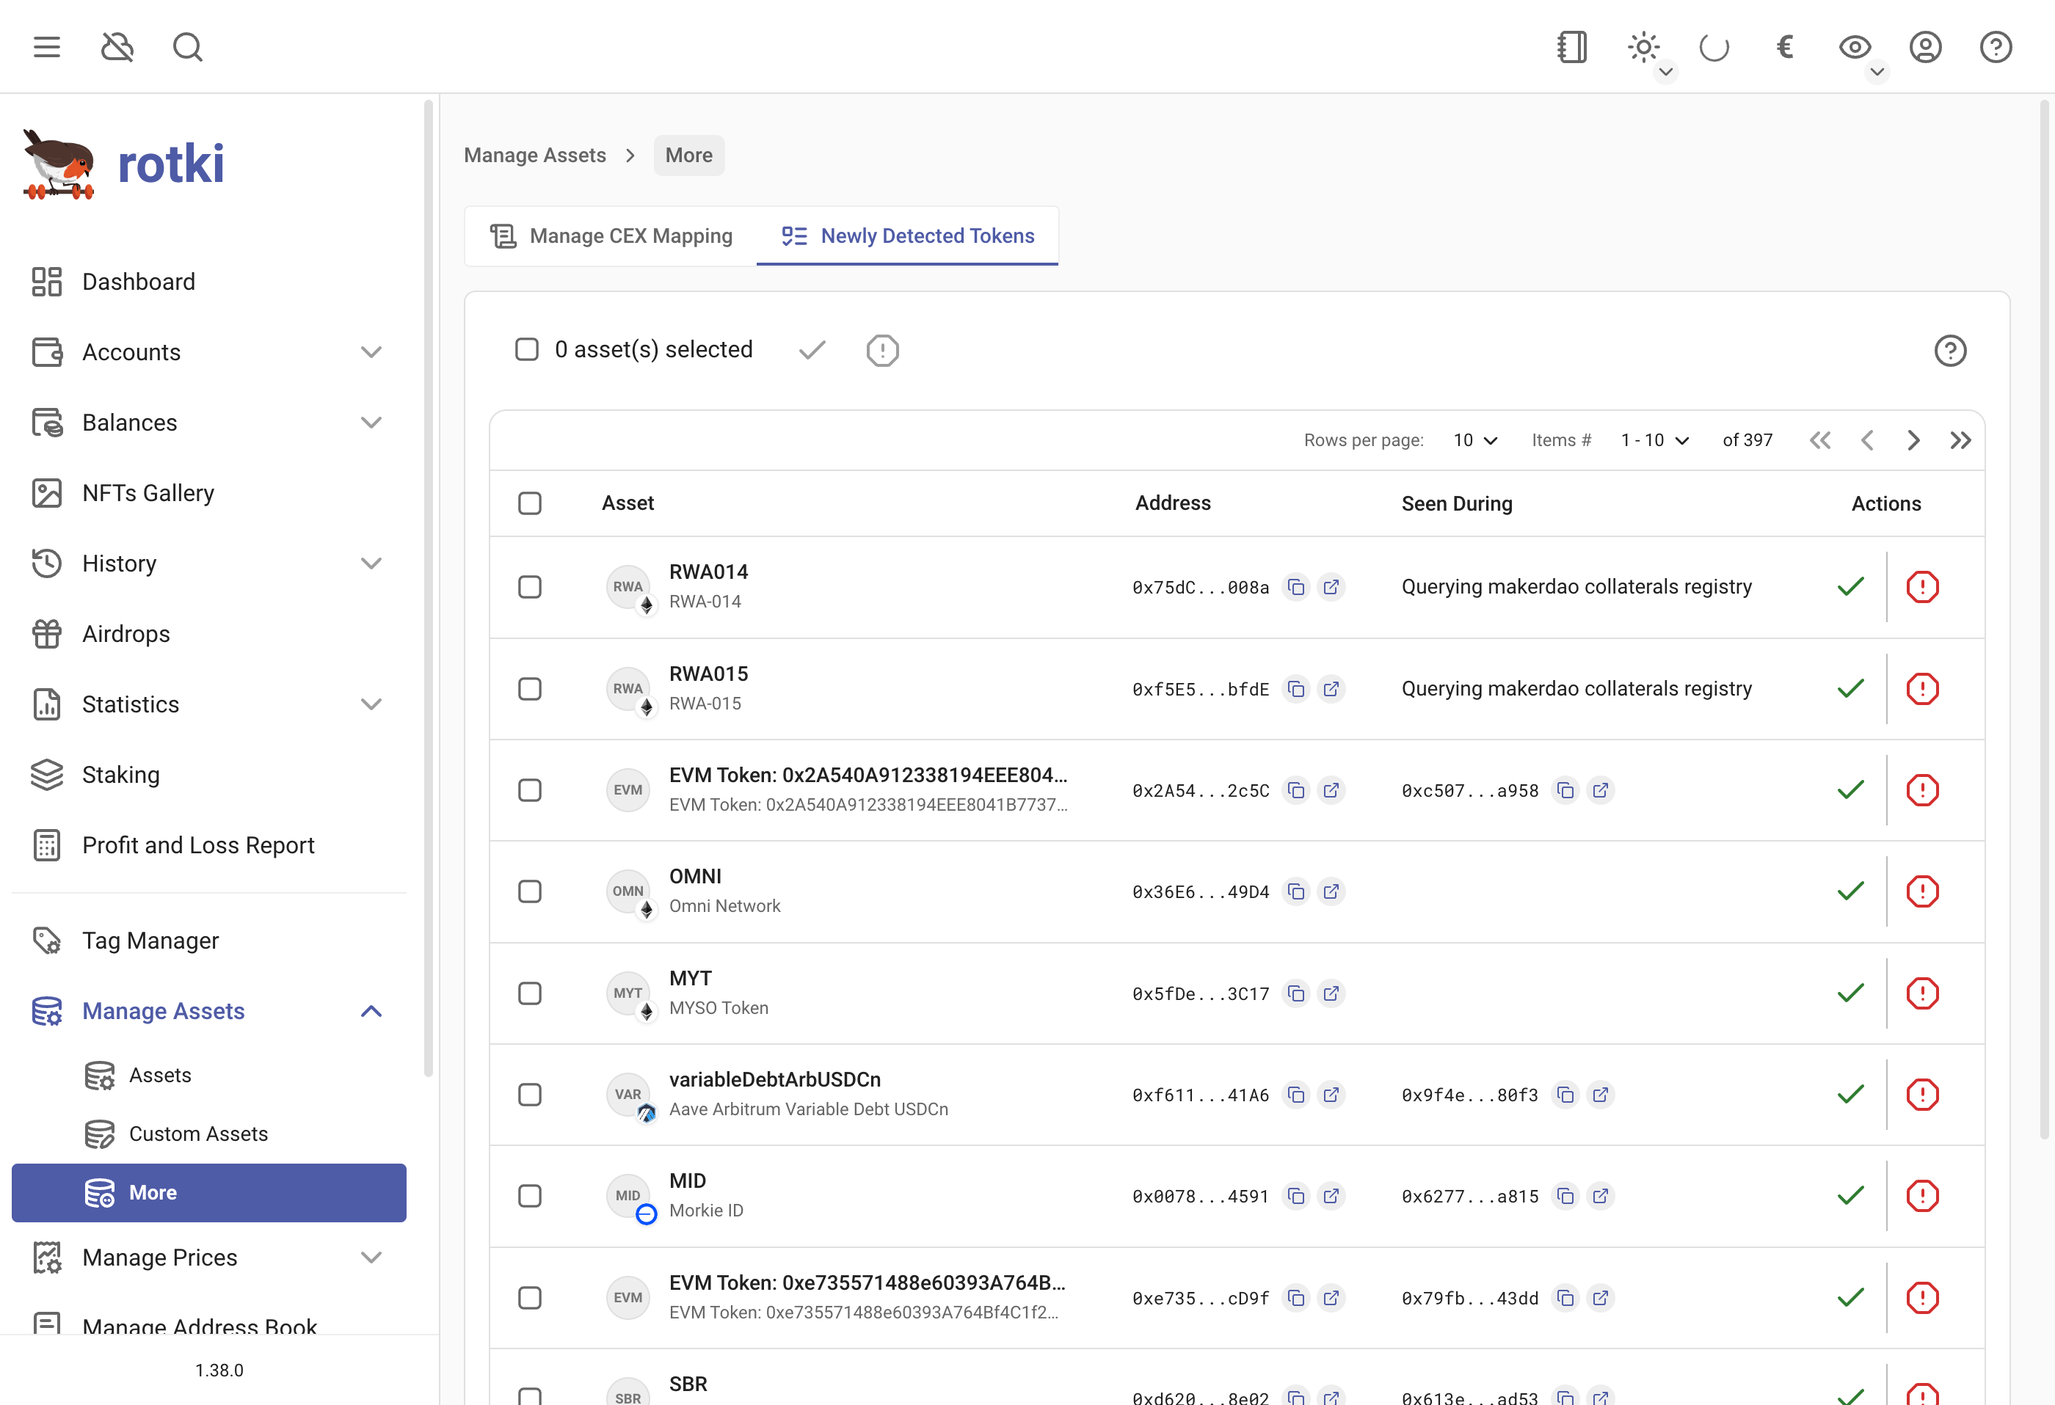
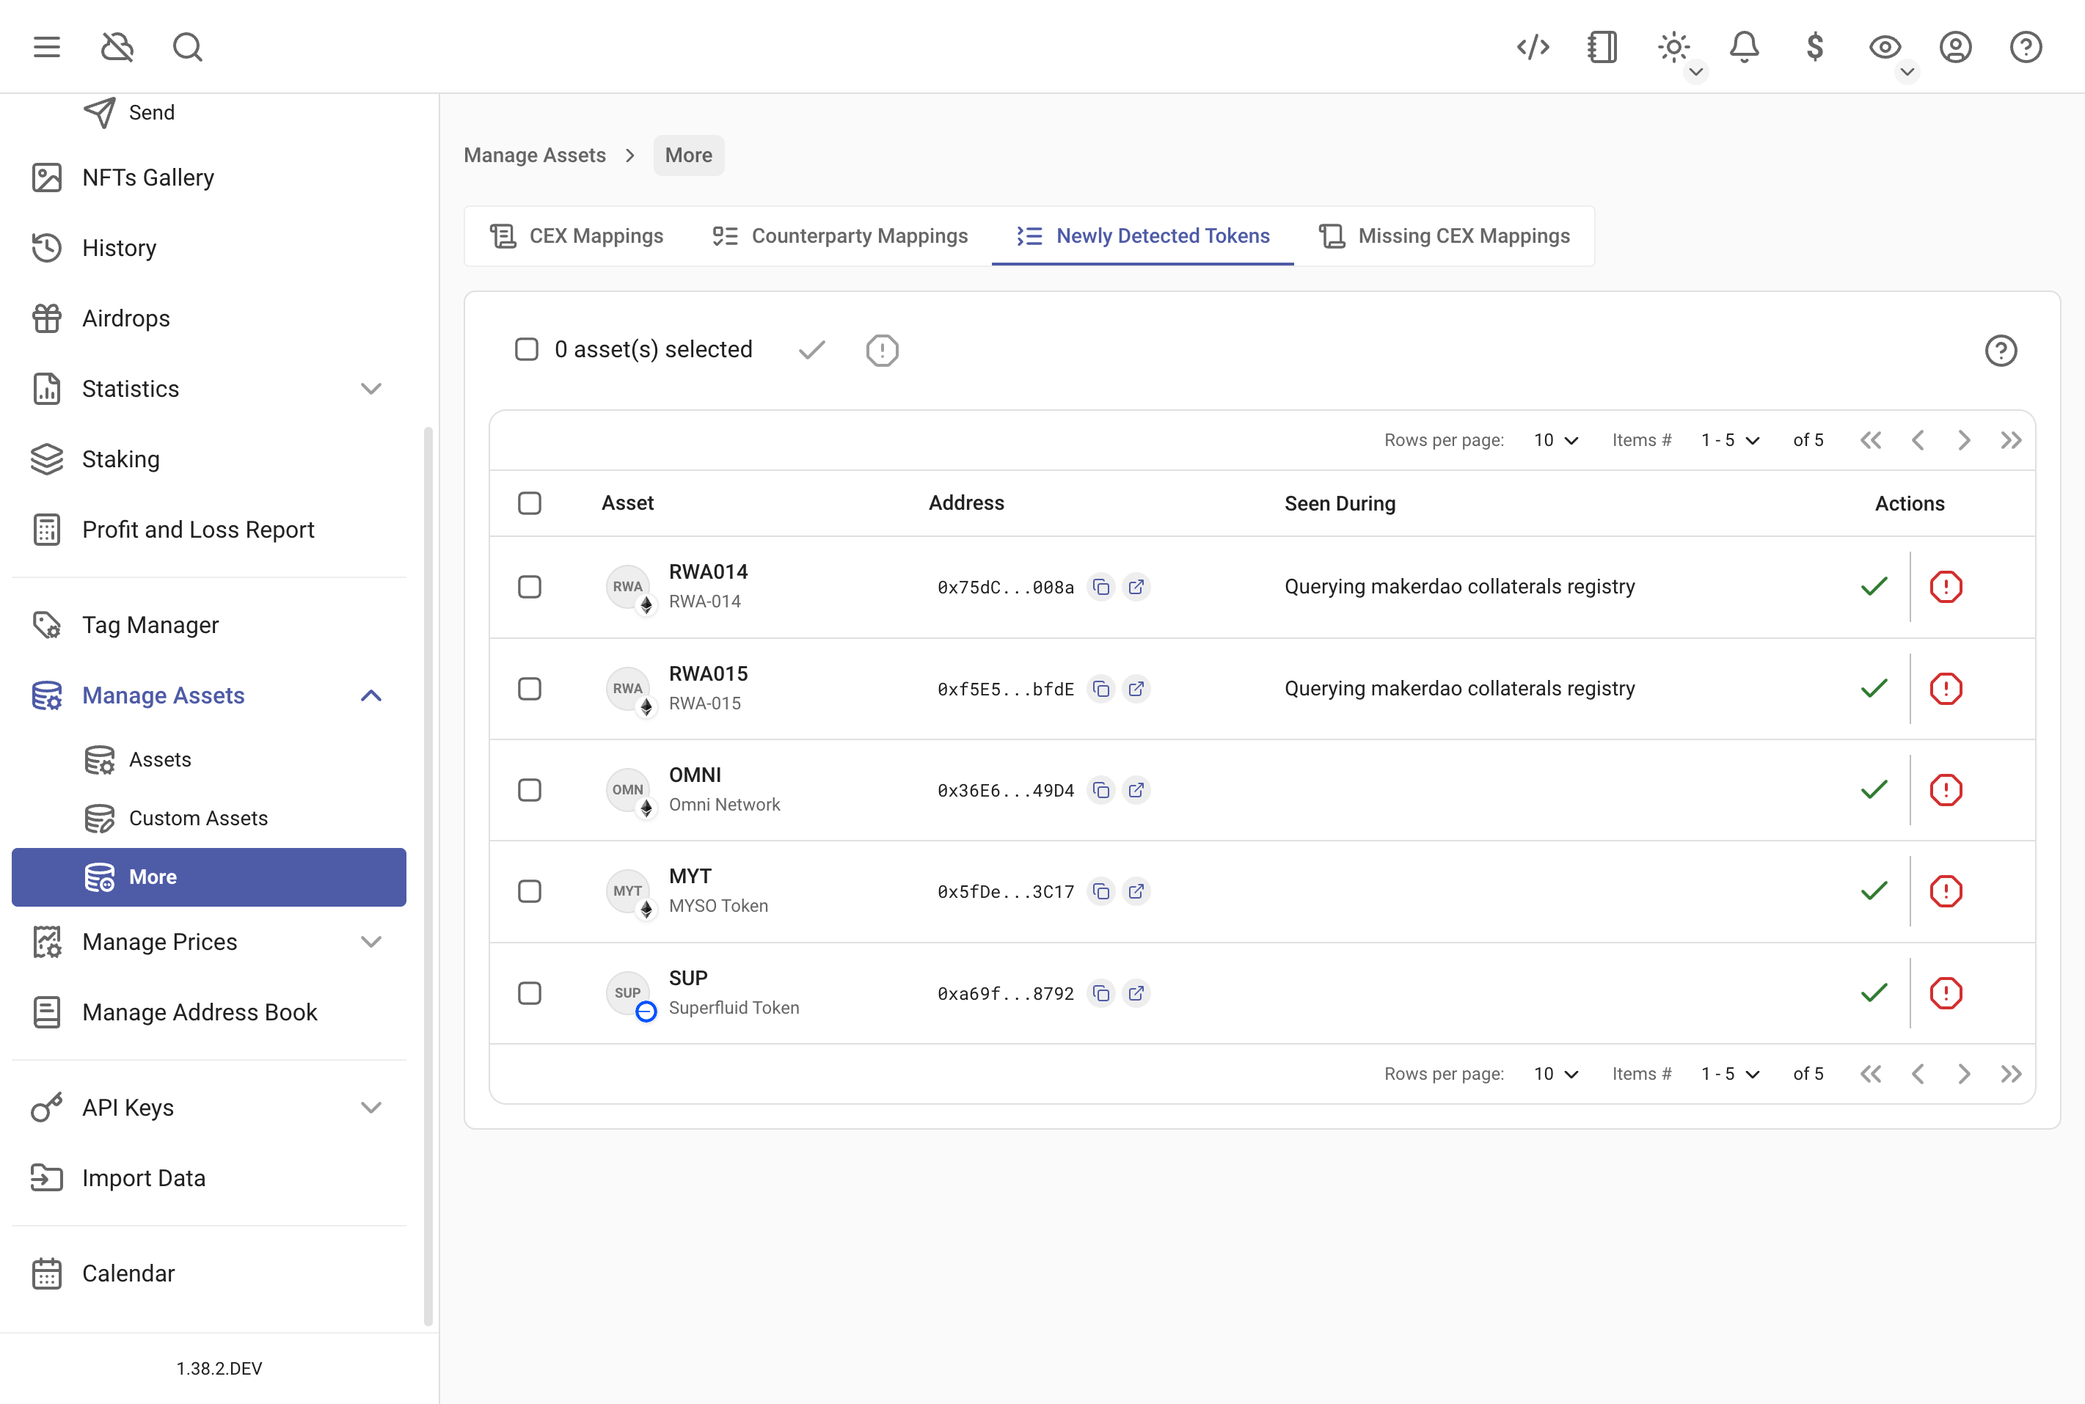
docs: update some changes in 1.39.0

diff --git a/usage-guides/historical-events.md b/usage-guides/historical-events.md
@@ -1,61 +1,8 @@
-# Historical events
-
-## Exchange Trades
-
-### Adding manual trades
-
-rotki will pull all your trade history from the exchanges whenever it needs it. But most of us have probably also done some OTC trades or taxable events at some point. Such events could even just be mining tokens, depending on your jurisdiction, participating in an ICO or getting paid in crypto.
-
-You can go to this page via `History → Exch. Trades`.
-Clicking on the "Add an external trade" button will open a menu like the following.
-
-![Add an external trade](/images/external_trade.png)
-
-To add a new trade, fill in all the fields and press the "Save" button.
-
-In the `amount` field you can register the amount of the base asset bought or sold. The `rate` field represents the rate of quote asset per base asset that was bought or sold. If there was a fee for the trade you should input it in the corresponding box and also enter the currency the fee was paid in. This field is optional so if the Fee was 0 you can leave this field empty. You can optionally provide additional notes or even links to blockchain explorers for each trade.
-
-In the Trades page you can see a table of all your external trades. You can edit or delete a trade by clicking on the appropriate icon at the rightmost part of each trade under the "Actions" column.
-
-Currently rotki tracks your balance by querying the different supported protocols, exchanges and blockchains. If you manually add information about a trade your balances will not be updated since trades are not consulted when updating the accounts' balances. If you want to manually update your balance for an asset please refer to the [manual balances section](/usage-guides/accounts-and-balances.html#manual-balances).
-
-### Filtering trades
-
-rotki supports filtering your trades with a combination of filters. All of the filters are applied at the same time
-limiting the trades to the ones that satisfy all the applied filters.
-
-![Filtering trades](/images/sc_history_trades_filter.png)
-
-You can filter using the following keys:
-
-- **base:** the base asset of the trades.
-- **quote:** the quote asset of the trades.
-- **action:** it can be buy or sell.
-- **start:** will only filter any trades from that date onwards.
-- **end:** will only filter any trades that happened before the selected date.
-- **location:** the location of the trade, e.g. kraken, uniswap etc.
-
-![Trade filter suggestions](/images/sc_history_trades_filter_suggestions.png)
-
-When selecting a filter, by clicking or typing the filter you will get some suggestions based on the available data.
-
-When a suggestion appears you can navigate to the next available suggestion using the tab button or you can also change
-the select suggestion using the up/down arrows in your keyboard. You can submit the selected filter by pressing enter.
-
-![Multiple trade filters applied](/images/sc_history_trades_filter_multi.png)
-
-After adding your filters you can press enter to close the menu.
-
-By default, all trades will be processed in accounting, but you can ignore unwanted trades, so they won't be processed.
-You can select the checkbox on the left part of each entry and click `Ignore`/`Unignore`.
-
-![Ignore trades](/images/sc_history_trades_ignore.png)
-
-## History Events
+# History events
 
 rotki is capable of pulling and decoding a bunch of different events, ranging from EVM chain transactions to exchanges events and more. When you visit the `History Events` section the process to obtain all the information will start. You will be able to check the status in an informative breakdown per blockchain address. Free users are limited to a number of latest events.
 
----
+## Supported events
 
 Currently, these events are detected automatically by rotki:
 
@@ -65,10 +12,11 @@ Currently, these events are detected automatically by rotki:
 - ETH block events
 - ETH deposit events
 - Asset movement events (deposits and withdrawals).
+- Swap events (trades).
 
 Additionally, you can add your custom events.
 
----
+## Events filtering
 
 History events can be filtered if you have a premium subscription activated. You can filter by:
 
@@ -78,27 +26,28 @@ History events can be filtered if you have a premium subscription activated. You
 - Protocol that interacted in the transaction
 - Location of the event (ethereum, optimism, kraken, etc.)
 - Event type (deposit, withdrawal, etc.)
-- Event sub type (fee, spend, etc.)
+- Event subtype (fee, spend, etc.)
 - Entry type (EVM event, ETH block event, etc.)
 - Counterparty address
 - Tx hash of a particular transaction that you want to check
 - Index of an eth2 validator that you want to see events for
-- Only show customized events
-- ... more
+- Show only customized events
+- Show entries with ignored assets
+- Should match exact filter (whether to only show the events that match the filter, excluding the other events in the same group)
 
-![History events query status breakdown](/images/events_query_process.png)
+![History events query status](/images/events_filter.png)
 
-### Ignore events in accounting
-
-By default, all events will be processed in accounting, but you can ignore unwanted events, so they won't be processed. You can click on the three dots to display the options for the group of events, and click `Ignore events in accounting`/`Unignore events in accounting`.
-
-### Export History Events as CSV
+## Export history events as CSV
 
 Events can be exported as CSV, click on `Export CSV` button and accept prompt to download exported events.
 
 ![Button to download events as csv](/images/events_csv_export.png)
 
-### Redecoding EVM transactions
+## Ignore events in accounting
+
+By default, all events will be processed in accounting, but you can ignore unwanted events, so they won't be processed. You can click on the three dots to display the options for the group of events, and click `Ignore events in accounting`/`Unignore events in accounting`.
+
+## Redecoding EVM transactions
 
 It is possible that you need to redecode events for an EVM transaction. To do that you have two options. The first of them is to click on the three dots to display the options for an EVM transaction and click on `Redecode events`. This will start the process to read the transaction's events again and try to understand what happened in them. If there are any custom events in the transaction, there will be one more confirmation, asking whether to also reset these custom events or not.
 
@@ -118,17 +67,27 @@ You will see the status of the EVM events redecoding.
 
 EVM Transactions and the events can be deleted, but to restore them you will have to either purge all transactions or add by the transaction hash.
 
-### Add transaction by hash
+## Delete event
+
+![Menu to delete EVM transactions events](/images/delete_transaction_events.png)
+
+## Add transaction by hash
 
 ![Add transaction by hash](/images/add_tx_by_hash.png)
 
 If you want to add a transaction that was either deleted or for some reason missed, or was not found by rotki, you can add it by transaction hash by clicking the menu as seen in the picture.
 
-![Menu to delete EVM transactions events](/images/delete_transaction_events.png)
+## Re-Pulling Transactions
+
+You can re-pull EVM transactions for a specific account within a selected time range, in case any past issues prevented events from being retrieved properly.
+
+## Missing accounting rule
 
 If you see this warning button, it means the event won't be processed correctly in accounting. It could be due to improper decoding or a missing accounting rule for that event. You can fix it by editing the event or adding the missing accounting rule. You can also edit the events if they have special meaning to you, such as OTC trades or transfers between accounts.
 
 ![The button indicates that the event won't be processed correctly.](/images/event_not_processed.png)
+
+## Add / edit events
 
 There are 6 types of events in rotki:
 
@@ -145,7 +104,7 @@ Here the non obvious fields are:
 
 == EVM Event
 
-![History event form](/images/events_evm_event_form.png)
+![EVM event form](/images/events_evm_event_form.png)
 
 Currently we support EVM events for these chains:
 
@@ -165,6 +124,13 @@ Here the non obvious fields are:
 - `Address`: Registered rotki account which this event is linked to.
 - `Counterparty`: This is the other part of the transaction, the address you are interacting with. Can be a protocol identifier if the transaction is decoded as part of a protocol.
 
+== EVM Swap Event
+
+![EVM swap event form](/images/events_evm_swap_event_form.png)
+
+Basically it's similar to `EVM Event`, but it's specifically for swap events.
+You can add multiple `spend` and `receive` assets.
+
 == ETH Withdrawal Event
 
 ![ETH withdrawal event form](/images/events_eth_withdrawal_event_form.png)
@@ -178,8 +144,12 @@ Here the non obvious fields are:
 ![ETH deposit event form](/images/events_eth_deposit_event_form.png)
 
 == Asset Movement Event
+
 ![Asset movement event form](/images/events_asset_movement_form.png)
 
+== Swap Event
+
+![Swap event form](/images/events_swap_event_form.png)
 :::
 
 For history event, and EVM history event, if any event was not decoded the way you expected it to be, you can always customize events using the settings described above or file a bug report on our github repository / in our discord server. The customizations that you make also affect how events are processed in accounting.

diff --git a/usage-guides/assets.md b/usage-guides/assets.md
@@ -3,29 +3,9 @@
 ## Inspecting list of assets
 
 You can now manage the list of supported assets by your local rotki instance.
-You can inspect the list of all supported assets, edit them, delete them or add new ones. They're divided into 3 sections; `Assets`, `Custom Assets`, and more sections (consist of `Manage CEX (Centralized Exchange) Mapping` and `Newly Detected Tokens` section).
+You can inspect the list of all supported assets, edit them, delete them or add new ones. They're divided into 3 sections; `Assets`, `Custom Assets`, and more sections (consist of `Manage CEX (Centralized Exchange) Mappings`, `Manage Counterparty Mappings`, `Newly Detected Tokens` and `Missing CEX Mappings` section).
 
 ![Manage the list of assets](/images/rotki_manage_assets.png)
-
-## Whitelisting of ignored assets
-
-Spam assets are a plague in EVM chains. rotki has an automatic algorithm trying to match assets as spam to not bother the user with automatically ignoring them. You can see all ignored assets in `Manage Assets → Assets` and filter by ignored. A problem with automatic algorithms marking something as spam is that mistakes can be made and a legit token may be ignored.
-
-![Filter ignored assets](/images/asset_filter_ignored.png)
-
-To solve this problem we added a whitelist which you can add assets to as can be seen below. Once an asset is added to the whitelist it will be removed from the ignore list and the automatic algorithm will not mark it as spam in the future.
-
-![Whitelist asset](/images/asset_whitelist_menu.png)
-
-## Whitelisting and Re-detecting Missing Tokens
-
-If a token doesn't appear in your balances, there are several ways to troubleshoot this. First you should check if it's been automatically or manually ignored. And then run a manual token detection.
-
-### Check Token is not Ignored or Marked as Spam
-
-Go to the `Manage Assets -> Assets page`. Use the search to find the token by name or address. Verify if the token is ignored. If ignored, unignore it. If you did not ignore it on purpose click to whitelist it so the spam detection algorithm does not falsely flag it as spam.
-
-![Example of managing assets and whitelisting a token in the Manage Assets page.](/images/manage-assets.png)
 
 ### Token Detection Methods
 
@@ -91,6 +71,12 @@ Users can link assets on exchanges to those recognized by rotki. If you encounte
 
 ![Manage centralized exchange asset mapping](/images/rotki_manage_cex_mapping.png)
 
+## Manage Counterparty Mappings
+
+Users can also link assets on any counterparty to those recognized by rotki.
+
+![Manage counterparty asset mappings](/images/rotki_manage_counterparty_mapping.png)
+
 ## Newly detected tokens
 
 All newly detected EVM tokens will appear in the list of newly detected tokens. You should inspect this list often and accept valid tokens and reject spam assets by adding them to the ignored tokens list.
@@ -137,3 +123,23 @@ You can also ignore assets by clicking asset icons anywhere on the app, that wil
 It is also possible to ignore NFTs. To do this navigate to `Balances → NFT Balances` and toggle the ignore NFT switch. Then you can use the filter to view the ignored NFTs.
 
 ![Ignoring NFTs](/images/rotki_ignore_nfts.png)
+
+## Whitelisting of ignored assets
+
+Spam assets are a plague in EVM chains. rotki has an automatic algorithm trying to match assets as spam to not bother the user with automatically ignoring them. You can see all ignored assets in `Manage Assets → Assets` and filter by ignored. A problem with automatic algorithms marking something as spam is that mistakes can be made and a legit token may be ignored.
+
+![Filter ignored assets](/images/asset_filter_ignored.png)
+
+To solve this problem we added a whitelist which you can add assets to as can be seen below. Once an asset is added to the whitelist it will be removed from the ignore list and the automatic algorithm will not mark it as spam in the future.
+
+![Whitelist asset](/images/asset_whitelist_menu.png)
+
+## Whitelisting and Re-detecting Missing Tokens
+
+If a token doesn't appear in your balances, there are several ways to troubleshoot this. First you should check if it's been automatically or manually ignored. And then run a manual token detection.
+
+### Check Token is not Ignored or Marked as Spam
+
+Go to the `Manage Assets -> Assets page`. Use the search to find the token by name or address. Verify if the token is ignored. If ignored, unignore it. If you did not ignore it on purpose click to whitelist it so the spam detection algorithm does not falsely flag it as spam.
+
+![Example of managing assets and whitelisting a token in the Manage Assets page.](/images/manage-assets.png)

diff --git a/usage-guides/onchain.md b/usage-guides/onchain.md
@@ -1,0 +1,35 @@
+# Onchain Transactions
+
+rotki allows you to perform onchain transactions by connecting your wallet (either through a browser wallet or WalletConnect).
+At the moment rotki only supports sending native tokens and ERC-20 tokens on all supported EVM chains.
+
+![Onchain send tokens](/images/onchain_send.png)
+
+::: info
+You can only send tokens from an address that is registered as an EVM account in rotki. Otherwise, rotki won't be able to retrieve the list of tokens.
+:::
+
+## Connect to a Browser Wallet from the Electron App
+
+If you're using rotki via the Electron app, you won't be able to connect directly to your browser wallet. Instead, rotki provides a bridge for this purpose. Follow these steps:
+
+1. Click the "Open Browser Wallet Bridge" button. This will open a page in your browser.
+   ![Open browser wallet bridge](/images/onchain_browser_wallet_bridge_1.png)
+
+2. On the bridge page, the first step is to connect it to your browser wallet.
+   ![Connect wallet in browser wallet bridge](/images/onchain_browser_wallet_bridge_2.png)
+
+3. Once connected, the page should display your wallet status.
+   ![Wallet connect bridge connected](/images/onchain_browser_wallet_bridge_3.png)
+
+4. Now you’ll need the `WalletConnect Pair URI`. Go back to the Electron app, click `Connect Wallet`, and choose `WalletConnect`.
+   ![Wallet Connect](/images/onchain_browser_wallet_bridge_4.png)
+
+5. Wait for the QR code to appear, then click `Copy Link`. The Pair URI will be copied to your clipboard. It will look something like this:
+   `wc:0579c1fee69aad512b6ef19a977a08f6c60b19415661cfa2882039da038a24fb@2?relay-protocol=irn&symKey=55d16a7cfc2198dfc1058254a7862c98aad401814bb86219041687d5b6de4020&expiryTimestamp=1744297123`
+   ![Copy Wallet Connect pairing URI](/images/onchain_browser_wallet_bridge_5.png)
+
+6. Return to the bridge page in your browser, paste the Pair URI, and click `Start Pairing`.
+   ![Wallet Connect bridge start pairing](/images/onchain_browser_wallet_bridge_6.png)
+
+You're now connected and can perform transactions from the Electron app.

diff --git a/usage-guides/api-keys.md b/usage-guides/api-keys.md
@@ -128,6 +128,8 @@ Without it, the queries will be really slow. You just need to:
 2. Generate a free API Key
 3. Add the key to rotki.
 
+You only need one Etherscan API key for all EVM chains since the key is now unified.
+
 ### Loopring balances
 
 To have your Loopring balances detected, you will need an API Key from Loopring. To get one, visit [Loopring Security](https://loopring.io/#/layer2/security) and unlock your account. In the list of options, click on **Export Account**.
